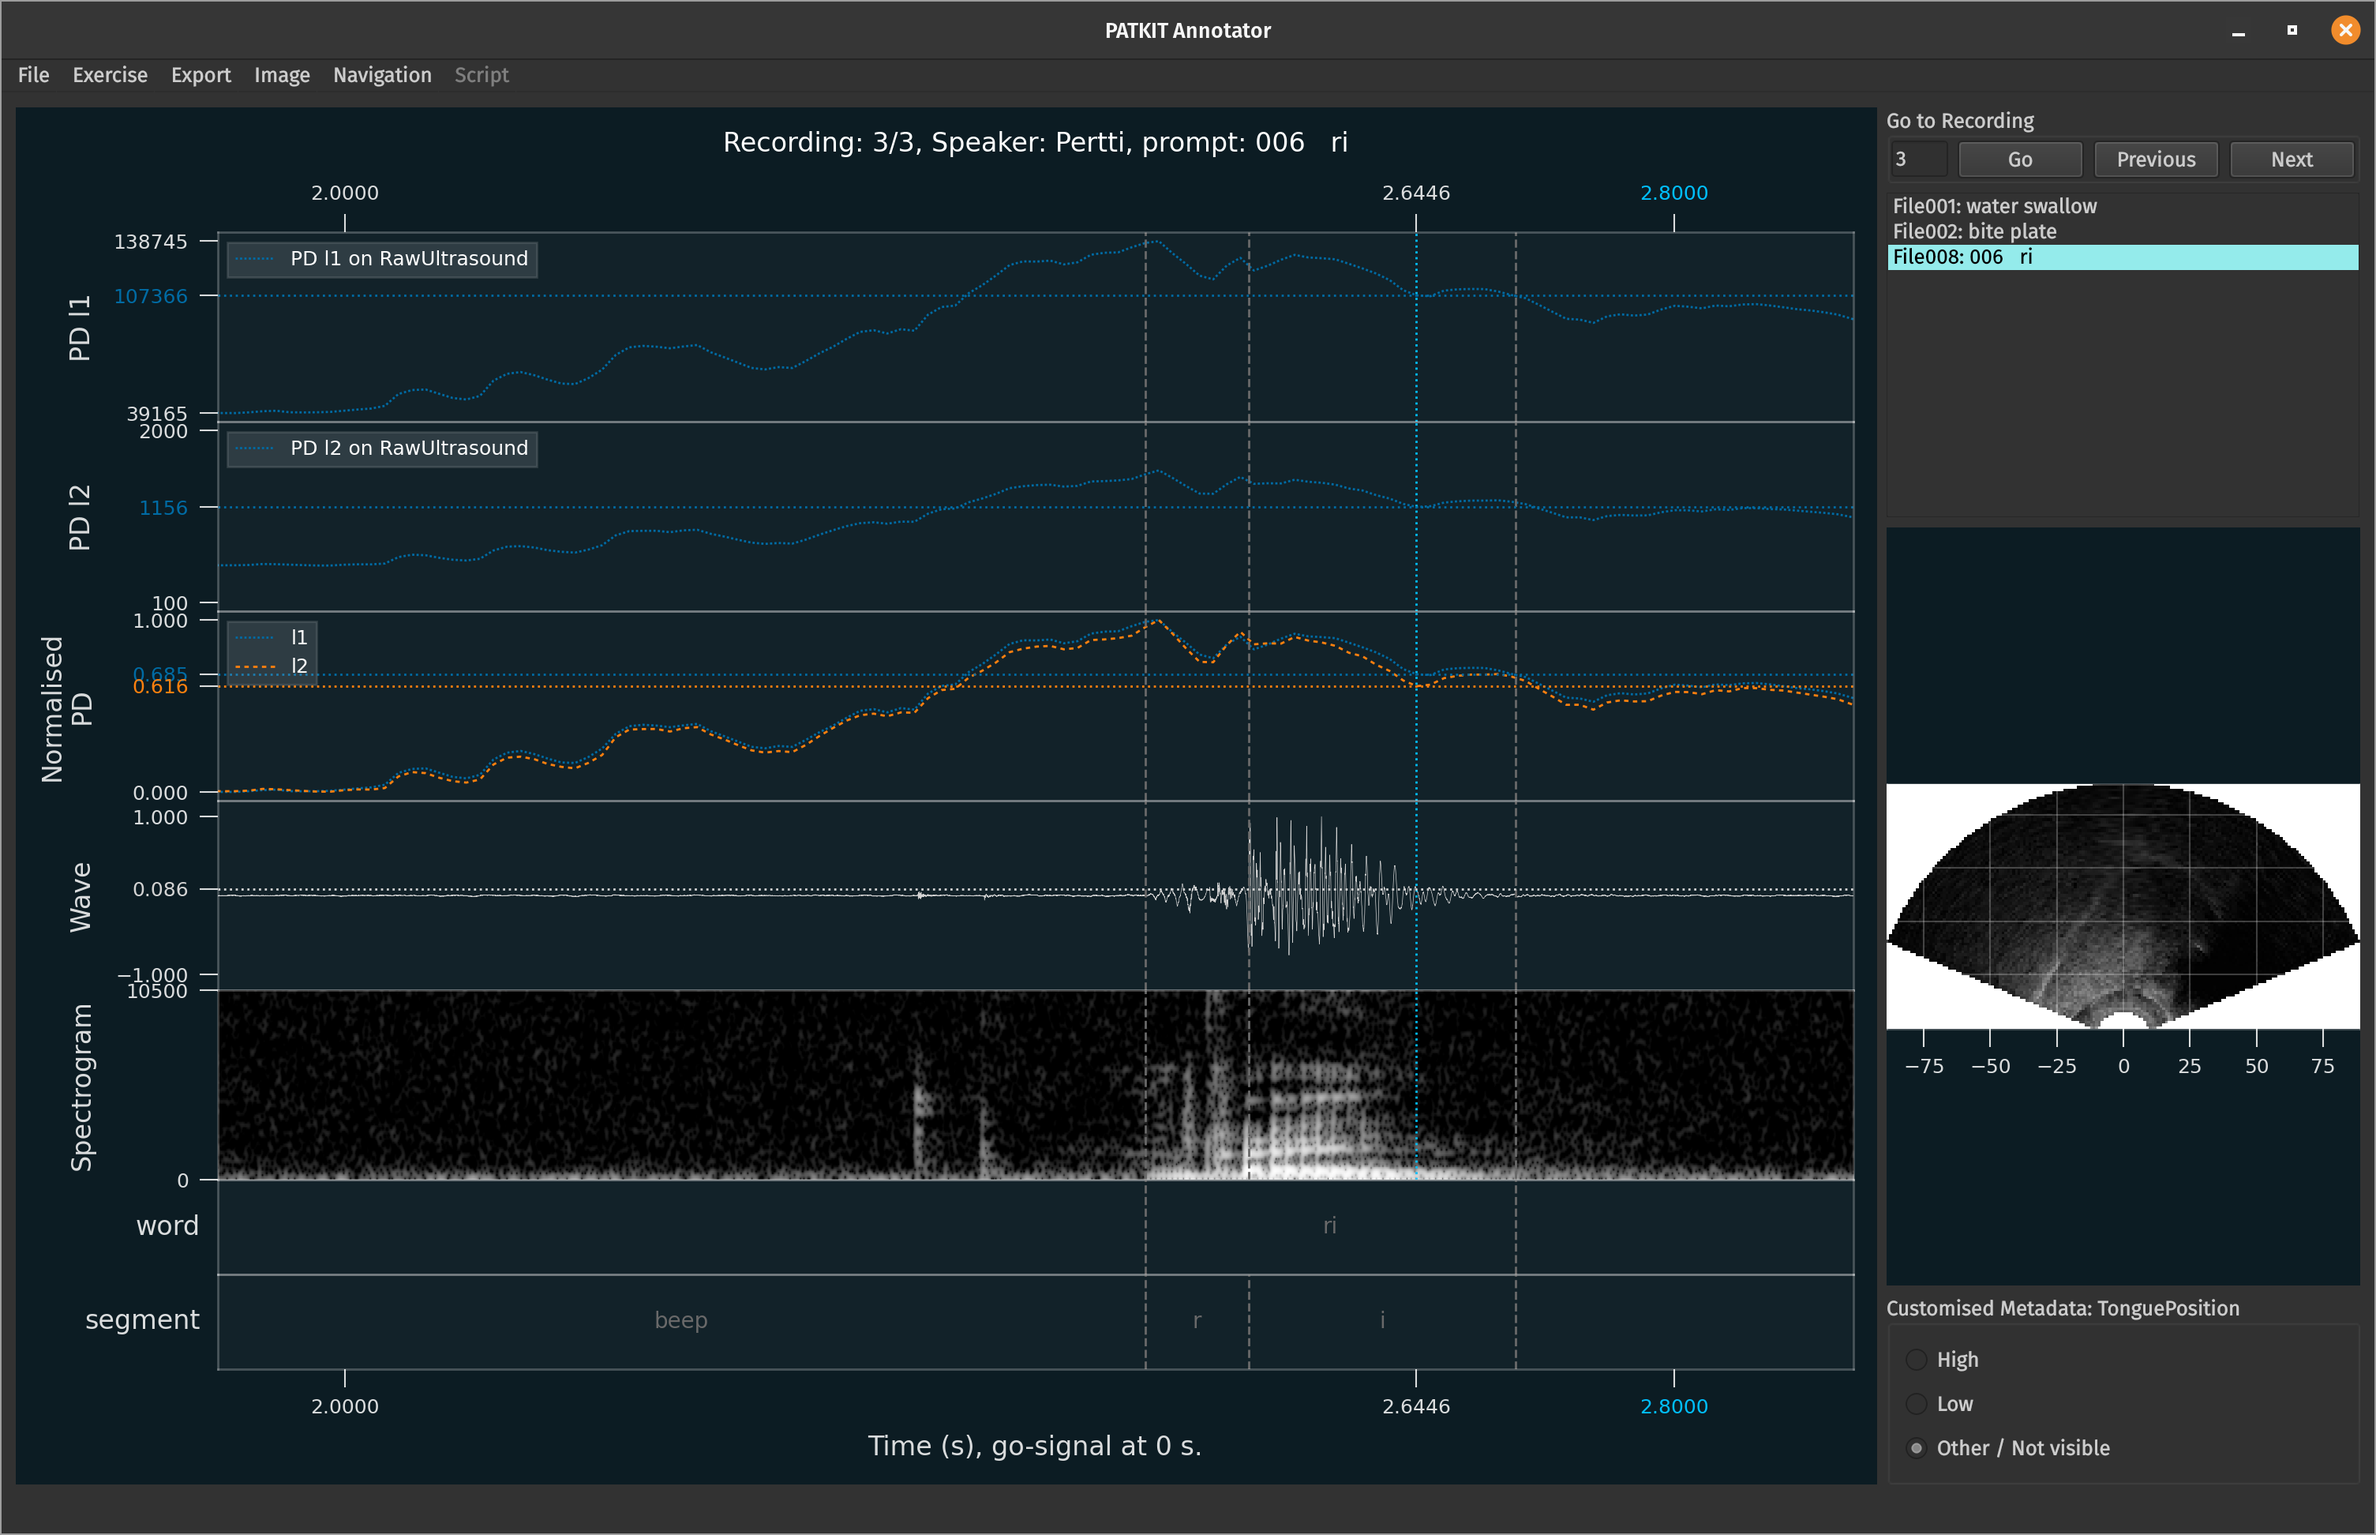
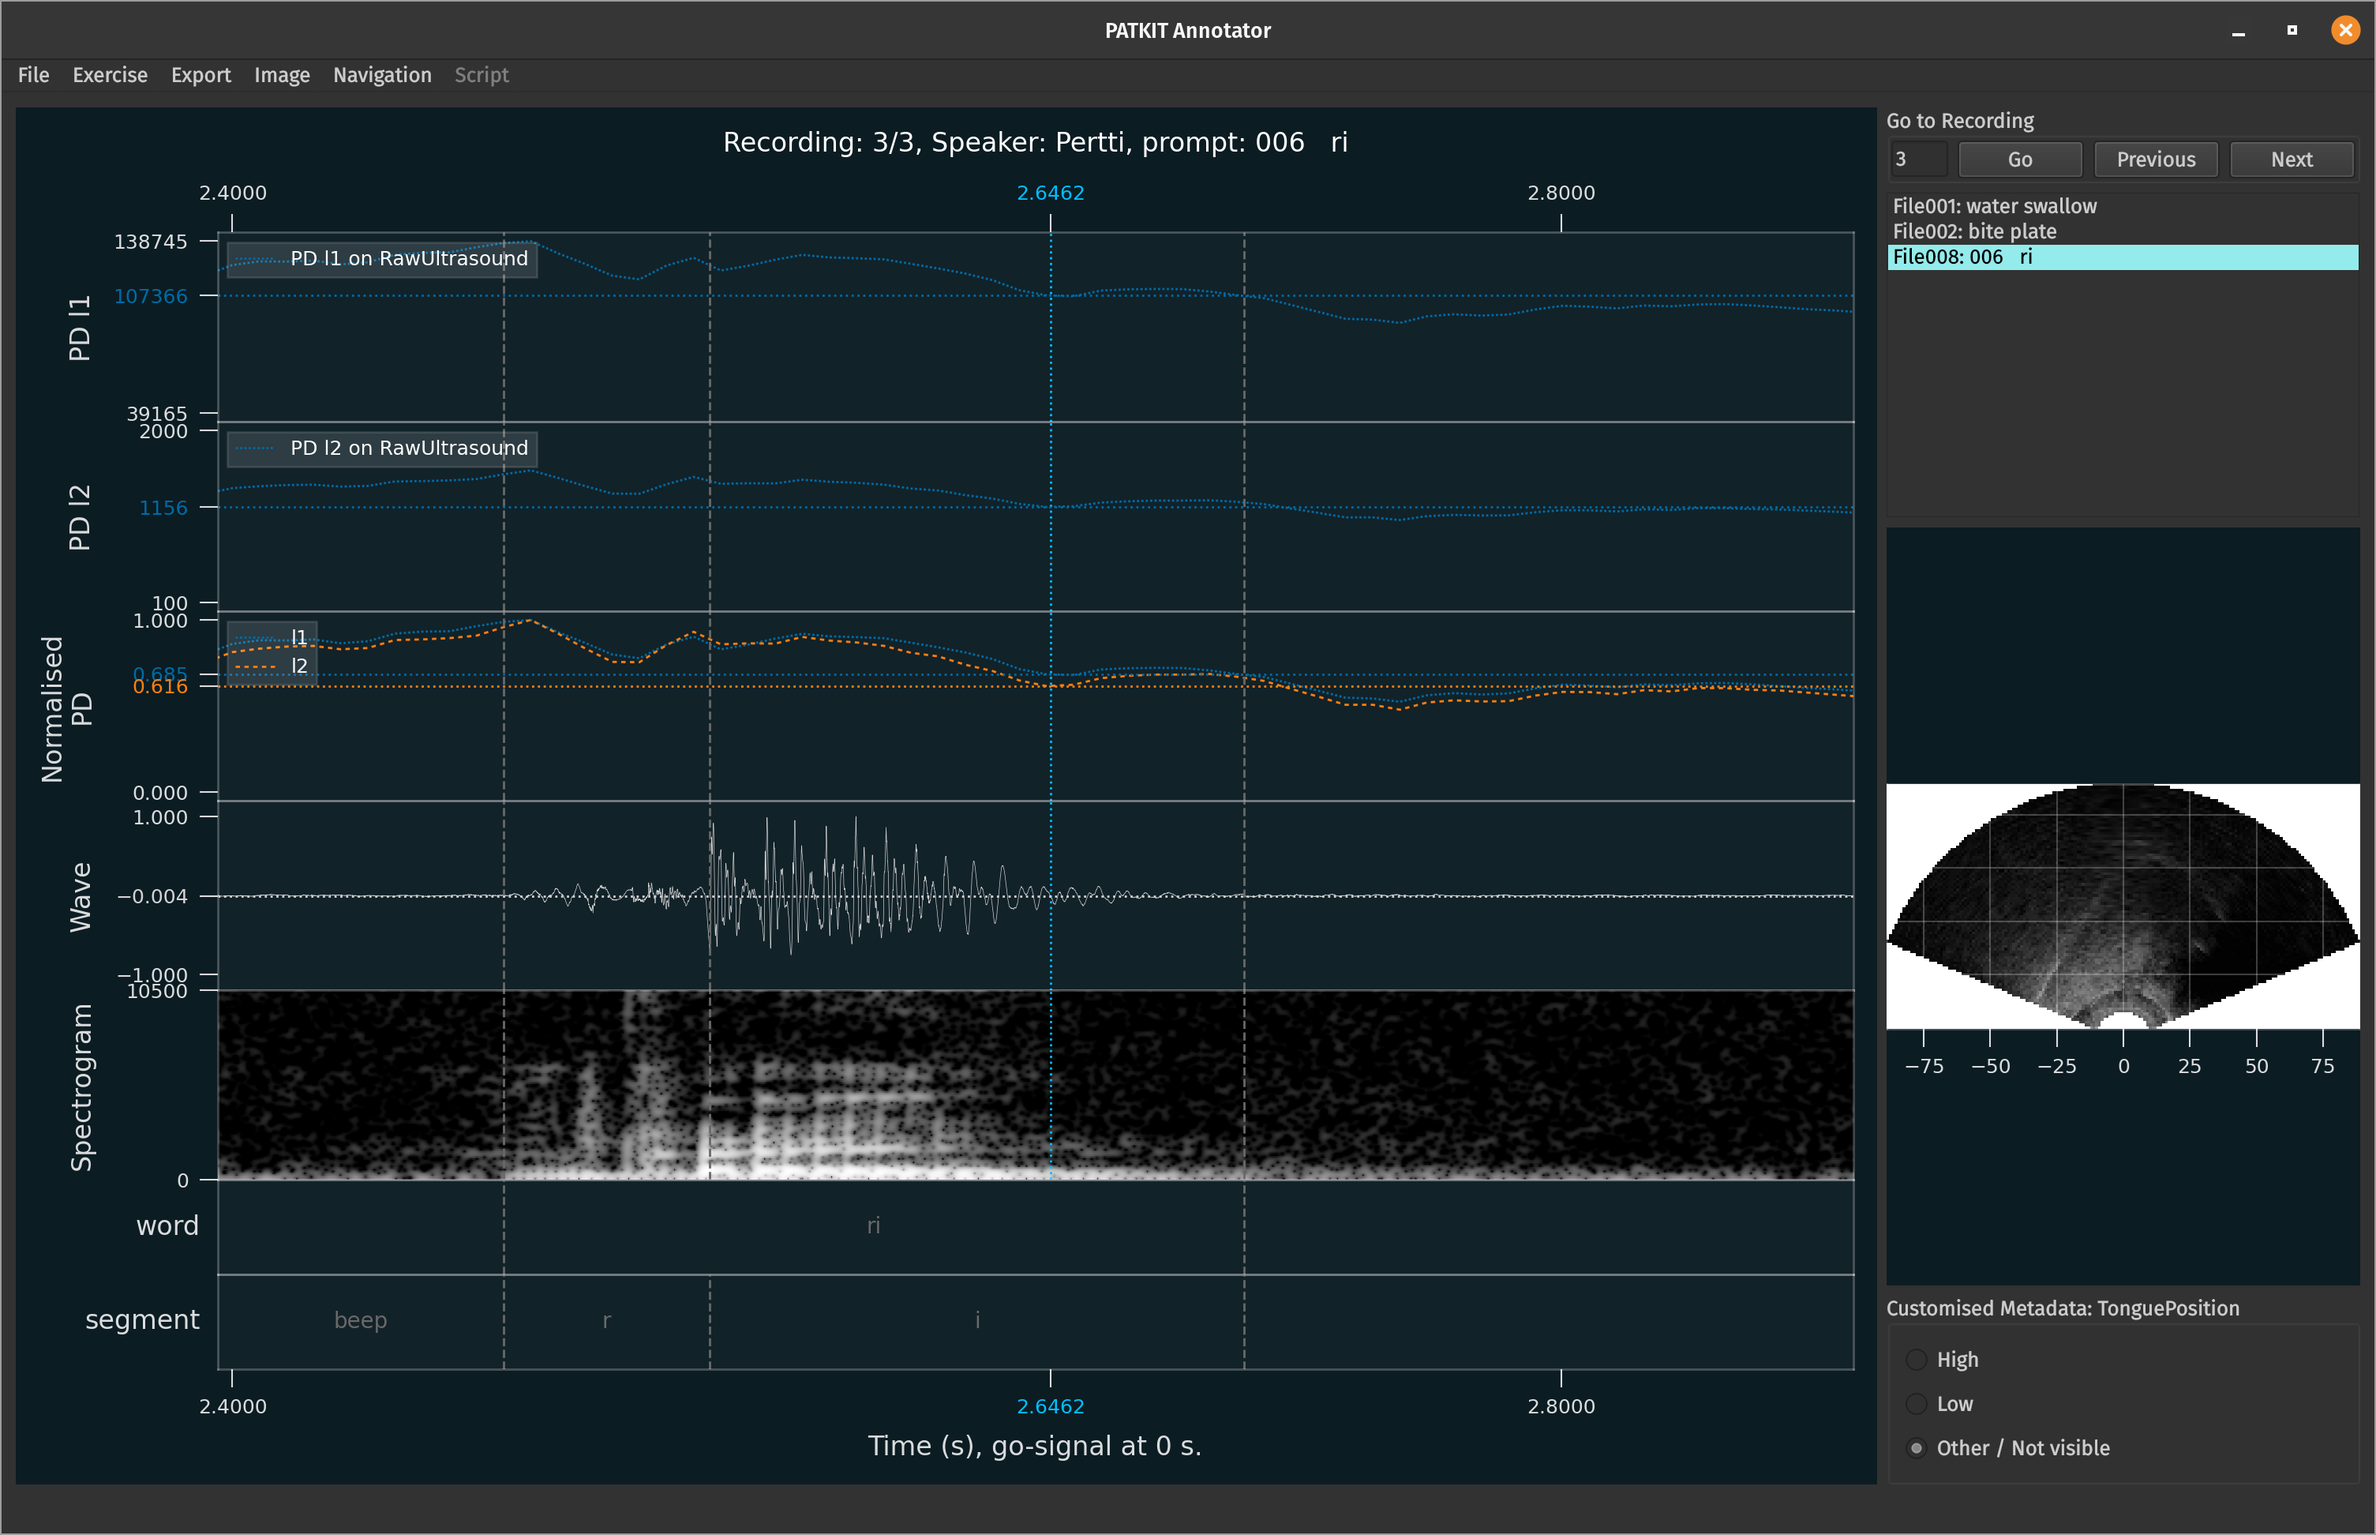
Cursor coloring fix

diff --git a/src/patkit/qt_annotator.py b/src/patkit/qt_annotator.py
@@ -759,9 +759,9 @@ class PdQtAnnotator(QMainWindow, UiMainWindow):
                 )
 
             xtick_labels = self.data_axes[0].get_xticklabels()
-            xtick_labels[2].set_color(color="deepskyblue")
+            xtick_labels[1].set_color(color="deepskyblue")
             xtick_labels = self.tier_axes[-1].get_xticklabels()
-            xtick_labels[2].set_color(color="deepskyblue")
+            xtick_labels[1].set_color(color="deepskyblue")
             for axes in self.data_axes:
                 # Save ylim to restore after annotation lines have been drawn.
                 # This is done because at least spectrogram tends to go weird
